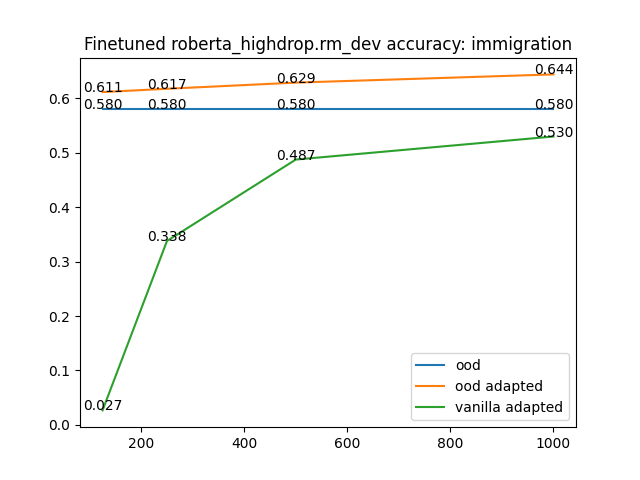
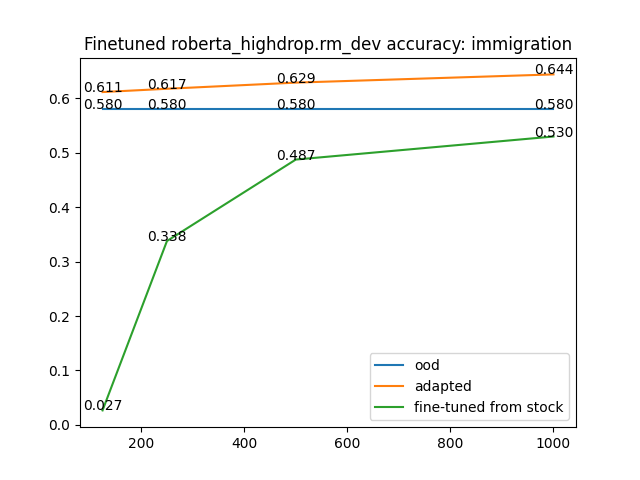
fig2

Changed region(s): [[0.5938, 0.75, 0.875, 0.875]]

diff --git a/media_frame_transformer/figures/2_fine_tune.py b/media_frame_transformer/figures/2_fine_tune.py
@@ -39,14 +39,14 @@ if __name__ == "__main__":
             (numsample, ood_acc) for numsample in DATASET_SIZES
         ]
 
-        # ood adapted (14 holdout adapt)
+        # adapted (14 holdout adapt)
         adapt_raw_json = load_json(
             join(MODELS_DIR, f"14.{_arch}", "best_earlystop.json")
         )
-        type2numsample0acc["ood adapted"] = []
+        type2numsample0acc["adapted"] = []
         for numsample in DATASET_SIZES:
             if issue != "mean":
-                type2numsample0acc["ood adapted"].append(
+                type2numsample0acc["adapted"].append(
                     (
                         numsample,
                         adapt_raw_json[str(numsample)][issue]["mean"][
@@ -55,7 +55,7 @@ if __name__ == "__main__":
                     )
                 )
             else:
-                type2numsample0acc["ood adapted"].append(
+                type2numsample0acc["adapted"].append(
                     (
                         numsample,
                         adapt_raw_json[str(numsample)]["mean"][
@@ -64,14 +64,14 @@ if __name__ == "__main__":
                     )
                 )
 
-        # vanilla adapted (3111 scarce num within issue)
+        # fine-tuned from stock (3111 scarce num within issue)
         vanilla_raw_json = load_json(
             join(MODELS_DIR, f"3111.{_arch.replace('_dev','')}", "mean_metrics.json")
         )
-        type2numsample0acc["vanilla adapted"] = []
+        type2numsample0acc["fine-tuned from stock"] = []
         for numsample in DATASET_SIZES:
             if issue != "mean":
-                type2numsample0acc["vanilla adapted"].append(
+                type2numsample0acc["fine-tuned from stock"].append(
                     (
                         numsample,
                         vanilla_raw_json[f"{numsample:04}_samples"][issue]["mean"][
@@ -80,7 +80,7 @@ if __name__ == "__main__":
                     )
                 )
             else:
-                type2numsample0acc["vanilla adapted"].append(
+                type2numsample0acc["fine-tuned from stock"].append(
                     (
                         numsample,
                         vanilla_raw_json[f"{numsample:04}_samples"]["mean"]["valid_f1"],
